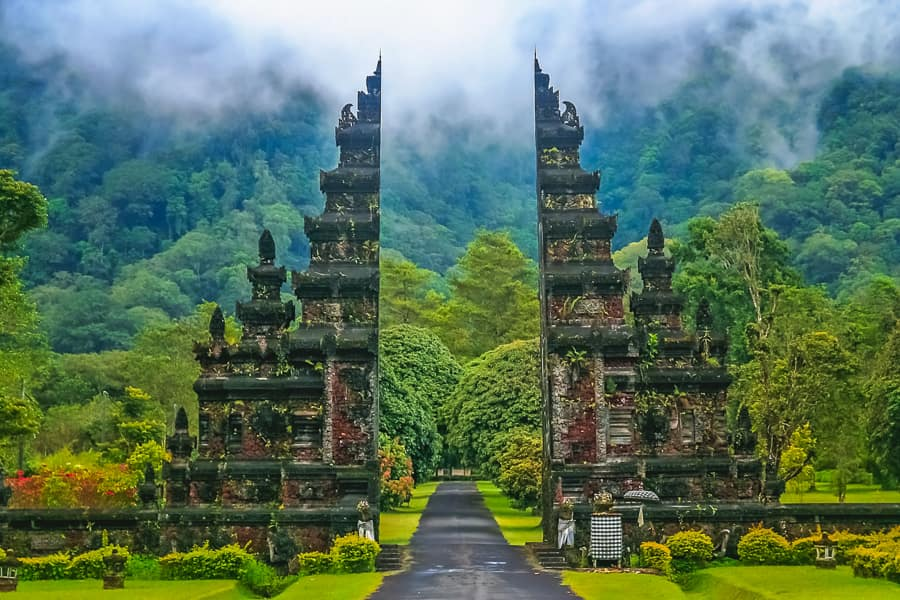
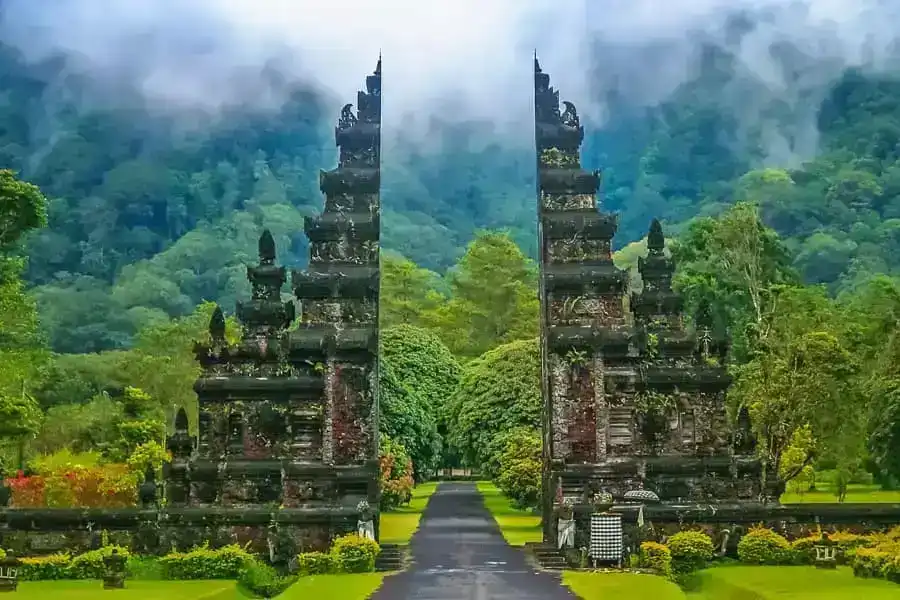
images

diff --git a/index.html b/index.html
@@ -167,7 +167,7 @@
                 <div class="place-item__panel place-item__panel--see-all">
                   <div class="place-see-hero">
                     <img class="place-see-hero__img" src="assets/images/location2.webp"
-                      srcset="assets/images/location2.webp 900w, assets/images/location2.webp 480w"
+                      srcset="assets/images/location2-card.webp 406w, assets/images/location2.webp 900w"
                       sizes="(max-width: 620px) 82vw, 203px" alt="" loading="lazy" decoding="async" />
                     <div class="place-see-badge" aria-hidden="true">
                       <span class="place-see-badge__flower"></span>
@@ -197,10 +197,10 @@
                         <div class="place-see-avatars" aria-hidden="true">
                           <img src="assets/images/insta_pic1.webp" alt="" />
                           <img src="assets/images/insta_pic2.webp"
-                            srcset="assets/images/insta_pic2.webp 200w, assets/images/insta_pic2.webp 64w"
+                            srcset="assets/images/insta_pic2-icon.webp 40w, assets/images/insta_pic2-strip.webp 280w"
                             sizes="24px" width="24" height="24" alt="" loading="lazy" decoding="async" />
                           <img src="assets/images/insta_pic3.webp"
-                            srcset="assets/images/insta_pic3.webp 200w, assets/images/insta_pic3.webp 64w"
+                            srcset="assets/images/insta_pic3-icon.webp 40w, assets/images/insta_pic3-strip.webp 280w"
                             sizes="35px" width="35" height="28" alt="" loading="lazy" decoding="async" />
                         </div>
                         <p class="place-see-trust__text"><strong>180K+</strong> Travelers<br />Exploring Bali</p>
@@ -214,7 +214,7 @@
               <article class="place-item place-item--3d" data-location-link="/locations/bali/ubud.html">
                 <div class="place-item__panel">
                   <img class="place-item__img" src="assets/images/location1.webp"
-                    srcset="assets/images/location.webp 360w, assets/images/location1.webp 900w"
+                    srcset="assets/images/location1-card.webp 406w, assets/images/location1.webp 900w"
                     sizes="(max-width: 620px) 82vw, 203px" alt="" loading="lazy" decoding="async" />
                   <div class="place-item__overlay" aria-hidden="true"></div>
                   <div class="place-item__glow" aria-hidden="true"></div>
@@ -234,7 +234,7 @@
                 data-adventure-start>
                 <div class="place-item__panel">
                   <img class="place-item__img" src="assets/images/location2.webp"
-                    srcset="assets/images/location2.webp 900w, assets/images/location2.webp 480w"
+                    srcset="assets/images/location2-card.webp 406w, assets/images/location2.webp 900w"
                     sizes="(max-width: 620px) 82vw, 203px" alt="" loading="lazy" decoding="async" />
                   <div class="place-item__overlay" aria-hidden="true"></div>
                   <div class="place-item__glow" aria-hidden="true"></div>
@@ -253,7 +253,7 @@
               <article class="place-item place-item--3d" data-location-link="/locations/bali/lombok.html">
                 <div class="place-item__panel">
                   <img class="place-item__img" src="assets/images/location3.webp"
-                    srcset="assets/images/location3.webp 900w, assets/images/location3.webp 480w"
+                    srcset="assets/images/location3-card.webp 406w, assets/images/location3.webp 900w"
                     sizes="(max-width: 620px) 82vw, 203px" alt="" loading="lazy" decoding="async" />
                   <div class="place-item__overlay" aria-hidden="true"></div>
                   <div class="place-item__glow" aria-hidden="true"></div>
@@ -306,7 +306,7 @@
               <article class="place-item place-item--3d" data-location-link="/locations/bali/uluwatu.html">
                 <div class="place-item__panel">
                   <img class="place-item__img" src="assets/images/location6.webp"
-                    srcset="assets/images/location6.webp 900w, assets/images/location6.webp 480w"
+                    srcset="assets/images/location6-card.webp 406w, assets/images/location6.webp 900w"
                     sizes="(max-width: 620px) 82vw, 203px" alt="" loading="lazy" decoding="async" />
                   <div class="place-item__overlay" aria-hidden="true"></div>
                   <div class="place-item__glow" aria-hidden="true"></div>
@@ -356,7 +356,7 @@
         <div class="trip-days__stage">
           <div class="day-row">
             <button class="day-card day-4" type="button"
-              style="background-image: linear-gradient(rgba(7, 22, 16, 0.25), rgba(7, 22, 16, 0.25)), url('assets/images/4-day.webp');">4Days</button>
+              style="background-image: linear-gradient(rgba(7, 22, 16, 0.25), rgba(7, 22, 16, 0.25)), url('assets/images/4-day-chip.webp');">4Days</button>
             <button class="day-card day-5" type="button"
               style="background-image: linear-gradient(rgba(7, 22, 16, 0.25), rgba(7, 22, 16, 0.25)), url('assets/images/5-day.webp');">5Days</button>
             <button class="day-card day-custom" type="button"
@@ -443,7 +443,7 @@
             <div class="package-thumb">
               <span class="offer">15% off</span>
               <img src="assets/images/isolated.webp"
-                srcset="assets/images/isolated1.webp 480w, assets/images/isolated.webp 920w"
+                srcset="assets/images/isolated-thumb.webp 690w, assets/images/isolated.webp 920w"
                 sizes="(max-width: 768px) 92vw, 345px" alt="Isolated Mountains" loading="lazy" decoding="async" />
             </div>
             <p class="location"><i class="fa-solid fa-location-dot"></i> Nusa Penida, Indonesia</p>
@@ -464,7 +464,7 @@
             <div class="package-thumb">
               <span class="offer">12% off</span>
               <img src="assets/images/gilli.webp"
-                srcset="assets/images/gilli1.webp 480w, assets/images/gilli.webp 920w"
+                srcset="assets/images/gilli-thumb.webp 690w, assets/images/gilli.webp 920w"
                 sizes="(max-width: 768px) 92vw, 345px" alt="White Beach Land" loading="lazy" decoding="async" />
             </div>
             <p class="location"><i class="fa-solid fa-location-dot"></i> Gili Trawangan, Indonesia</p>
@@ -485,7 +485,7 @@
             <div class="package-thumb">
               <span class="offer">8% off</span>
               <img src="assets/images/semiyak81.webp"
-                srcset="assets/images/semiyak82.webp 480w, assets/images/semiyak81.webp 920w"
+                srcset="assets/images/semiyak81-thumb.webp 690w, assets/images/semiyak81.webp 920w"
                 sizes="(max-width: 768px) 92vw, 345px" alt="Family Beach Resort" loading="lazy" decoding="async" />
             </div>
             <p class="location"><i class="fa-solid fa-location-dot"></i> Seminyak, Indonesia</p>
@@ -503,7 +503,7 @@
             <div class="package-thumb">
               <span class="offer">10% off</span>
               <img src="assets/images/ubud51.webp"
-                srcset="assets/images/ubud52.webp 480w, assets/images/ubud51.webp 920w"
+                srcset="assets/images/ubud51-thumb.webp 690w, assets/images/ubud51.webp 920w"
                 sizes="(max-width: 768px) 92vw, 345px" alt="Cultural Village Tour" loading="lazy" decoding="async" />
             </div>
             <p class="location"><i class="fa-solid fa-location-dot"></i> Ubud, Indonesia</p>
@@ -522,7 +522,7 @@
             <div class="package-thumb">
               <span class="offer">18% off</span>
               <img src="assets/images/kuta61.webp"
-                srcset="assets/images/kuta62.webp 480w, assets/images/kuta61.webp 920w"
+                srcset="assets/images/kuta61-thumb.webp 690w, assets/images/kuta61.webp 920w"
                 sizes="(max-width: 768px) 92vw, 345px" alt="Waterpark and Temples" loading="lazy" decoding="async" />
             </div>
             <p class="location"><i class="fa-solid fa-location-dot"></i> Kuta, Indonesia</p>
@@ -558,7 +558,7 @@
             <div class="package-thumb">
               <span class="offer">5% off</span>
               <img src="assets/images/volcano.webp"
-                srcset="assets/images/volcano1.webp 480w, assets/images/volcano.webp 920w"
+                srcset="assets/images/volcano-thumb.webp 690w, assets/images/volcano.webp 920w"
                 sizes="(max-width: 768px) 92vw, 345px" alt="Volcano Trekking" loading="lazy" decoding="async" />
             </div>
             <p class="location"><i class="fa-solid fa-location-dot"></i> Mount Batur, Indonesia</p>
@@ -577,7 +577,7 @@
             <div class="package-thumb">
               <span class="offer">13% off</span>
               <img src="assets/images/nusa61.webp"
-                srcset="assets/images/nusa62.webp 480w, assets/images/nusa61.webp 920w"
+                srcset="assets/images/nusa61-thumb.webp 690w, assets/images/nusa61.webp 920w"
                 sizes="(max-width: 768px) 92vw, 345px" alt="Island Hopping Tour" loading="lazy" decoding="async" />
             </div>
             <p class="location"><i class="fa-solid fa-location-dot"></i> Nusa Lembongan, Indonesia</p>
@@ -611,7 +611,7 @@
           <a class="social-link tripadvisor" href="https://www.tripadvisor.com/" target="_blank"
             rel="noopener noreferrer" aria-label="Tripadvisor — opens website or Tripadvisor app if installed">
             <img class="social-tripadvisor-icon" src="assets/images/tripadvisor-icon.webp"
-              srcset="assets/images/tripadvisor-icon.webp 64w, assets/images/tripadvisor-icon.webp 20w" sizes="20px"
+              srcset="assets/images/tripadvisor-icon-icon.webp 40w, assets/images/tripadvisor-icon.webp 64w" sizes="20px"
               width="20" height="20" alt="" loading="lazy" decoding="async" />
             <span class="social-link-label">Tripadvisor</span>
           </a>
@@ -744,7 +744,7 @@
         <div class="overlay"></div>
         <div class="banner-content">
           <img class="indo-map" src="assets/images/map.webp"
-            srcset="assets/images/map.webp 860w, assets/images/map.webp 548w"
+            srcset="assets/images/map-map.webp 548w, assets/images/map.webp 860w"
             sizes="(max-width: 900px) 86vw, 860px" alt="Indonesia map outline" loading="lazy" decoding="async" />
           <p class="spotlight-kicker">EXPLORE THE WONDERFULL OF</p>
           <h2>Bali, Indonesia</h2>
@@ -797,36 +797,49 @@
               <span class="bento-cell__glow" aria-hidden="true"></span>
               <div class="bento-cell__media">
                 <img src="assets/images/family-tour1.webp"
-                  alt="Travelers beside a camper under the stars" fetchpriority="high" />
+                  srcset="assets/images/family-tour1-ft345.webp 345w, assets/images/family-tour1.webp 1024w"
+                  sizes="(max-width: 900px) 88vw, 345px" width="345" height="228"
+                  alt="Travelers beside a camper under the stars" fetchpriority="high" decoding="async" />
               </div>
             </article>
             <article class="bento-cell bento-cell--couple" data-ft-bento data-ft-enter="left">
               <div class="bento-cell__media">
                 <img src="assets/images/family-tour2.webp"
-                  alt="Couple on a scenic night trip" />
+                  srcset="assets/images/family-tour2-ft312.webp 312w, assets/images/family-tour2.webp 1024w"
+                  sizes="(max-width: 900px) 82vw, 312px" width="312" height="208"
+                  alt="Couple on a scenic night trip" loading="lazy" decoding="async" />
               </div>
             </article>
             <article class="bento-cell bento-cell--dive" data-ft-bento data-ft-enter="center">
               <div class="bento-cell__media">
                 <img src="assets/images/family-tour3.webp"
-                  alt="Scuba diving adventure" />
+                  srcset="assets/images/family-tour3-ft228.webp 228w, assets/images/family-tour3.webp 1024w"
+                  sizes="(max-width: 900px) 72vw, 228px" width="228" height="152"
+                  alt="Scuba diving adventure" loading="lazy" decoding="async" />
               </div>
             </article>
             <article class="bento-cell bento-cell--kayak" data-ft-bento data-ft-enter="bottom">
               <div class="bento-cell__media">
                 <img src="assets/images/family-tour4.webp"
-                  alt="Kayaking on turquoise water" />
+                  srcset="assets/images/family-tour4-ft228.webp 228w, assets/images/family-tour4.webp 1024w"
+                  sizes="(max-width: 900px) 72vw, 228px" width="228" height="152"
+                  alt="Kayaking on turquoise water" loading="lazy" decoding="async" />
               </div>
             </article>
             <article class="bento-cell bento-cell--landmark" data-ft-bento data-ft-enter="right">
               <div class="bento-cell__media">
-                <img src="assets/images/family-tour5.webp" alt="Family travel adventure" loading="lazy" decoding="async" />
+                <img src="assets/images/family-tour5.webp"
+                  srcset="assets/images/family-tour5-ft228.webp 228w, assets/images/family-tour5.webp 1024w"
+                  sizes="(max-width: 900px) 72vw, 228px" width="228" height="152"
+                  alt="Family travel adventure" loading="lazy" decoding="async" />
               </div>
             </article>
             <article class="bento-cell bento-cell--reef" data-ft-bento data-ft-enter="bottom">
               <div class="bento-cell__media">
                 <img src="assets/images/family-tour6.webp"
-                  alt="Underwater coral and tropical fish" />
+                  srcset="assets/images/family-tour6-ft228.webp 228w, assets/images/family-tour6.webp 1024w"
+                  sizes="(max-width: 900px) 72vw, 228px" width="228" height="152"
+                  alt="Underwater coral and tropical fish" loading="lazy" decoding="async" />
               </div>
             </article>
           </div>
@@ -1336,10 +1349,10 @@
         <div class="instagram-strip">
           <img src="assets/images/insta_pic1.webp" alt="Ocean cliffs" />
           <img src="assets/images/insta_pic2.webp"
-            srcset="assets/images/insta_pic2.webp 560w, assets/images/insta_pic2.webp 280w"
+            srcset="assets/images/insta_pic2-strip.webp 280w, assets/images/insta_pic2.webp 560w"
             sizes="280px" alt="Tropical beach" loading="lazy" decoding="async" />
           <img src="assets/images/insta_pic3.webp"
-            srcset="assets/images/insta_pic3.webp 200w, assets/images/insta_pic3.webp 64w"
+            srcset="assets/images/insta_pic3-icon.webp 40w, assets/images/insta_pic3-strip.webp 280w, assets/images/insta_pic3.webp 560w"
             sizes="35px" width="35" height="28" alt="Balinese dancer" loading="lazy" decoding="async" />
           <img src="assets/images/insta_pic4.webp" alt="Sunset beach" />
           <img src="assets/images/insta_pic5.webp" alt="Temple statue" />